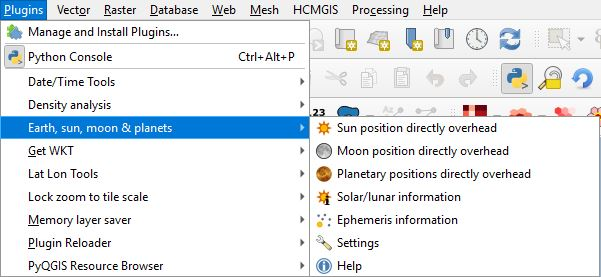
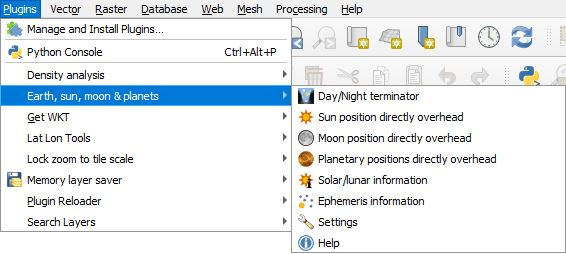
Update documentation

diff --git a/readme.md b/readme.md
@@ -1,11 +1,11 @@
 # Earth, Sun, Moon, and Planets Plugin
 
-This plugin uses the highly accurate Skyfield library to show where the sun, moon, and planets are located at their zenith from earth's perspective for a particular date and time. An additional algorithm calculates lunar and solar data for a particular location on earth given a date and time. When installed, this plugin can be found in the QGIS menu under ***Plugins->Earth, sun, moon &amp; planets***. 
+This plugin uses the highly accurate Skyfield library to show where the sun, moon, and planets are located at their zenith from earth's perspective for a particular date and time. An additional algorithm calculates lunar and solar data for a particular location on earth given a date and time. The ***Day/Night terminator*** algorithm plots the day/night terminator line and polygon layers associate with sunrise/set, civil twilight, nautical twilight, and astronomical twilight. When installed, this plugin can be found in the QGIS menu under ***Plugins->Earth, sun, moon &amp; planets***. 
 
 <div style="text-align:center"><img src="doc/menu.jpg" alt="Plugin menu"></div>
 
 ## Installation
-This plugin requires two additional libraries not provided by QGIS. These can be installed by opening up your OSGeo4W Shell and typing the command "**pip install timezonefinder skyfield**" or whatever method you use to install Python libraries.
+Other than for the ***Day/Night terminator*** algorithm, this plugin requires two additional libraries not provided by QGIS. These can be installed by opening up your OSGeo4W Shell and typing the command "**pip install timezonefinder skyfield**" or whatever method you use to install Python libraries.
 
 You do not need to be a system administrator to be able to install these libraries.
 
@@ -13,6 +13,7 @@ You do not need to be a system administrator to be able to install these librari
 
 These are the tools provided by the Earth, Sun, Moon, and Planets Plugin:
 
+* <img src="icons/daynight.png" width=24 height=24 alt="Sun position directly overhead"> ***Day/Night terminator*** - This algorithm creates vector layers for the day/night terminator line, polygon layers associate with sunrise/set, civil twilight, nautical twilight and astronomical twilight, and the position of the sun directly overhead. Unlike the other algorithms below this does not depend on the Skyfield library. It uses spherical geometery like the web based maps that you find on-line.
 * <img src="icons/sun_icon.svg" alt="Sun position directly overhead"> ***Sun position directly overhead*** - This shows the location of the sun where it is directly overhead for a particular date and time.
 * <img src="icons/moon.png" width=24 height=24 alt="Moon position directly overhead"> ***Moon position directly overhead*** - This shows the location of the moon where it is directly overhead for a particular date and time.
 * <img src="icons/venus.png" width=24 height=24 alt="Planetary positions directly overhead"> ***Planetary positions directly overhead*** - This shows the location of the planets where they are directly overhead for a particular date and time.
